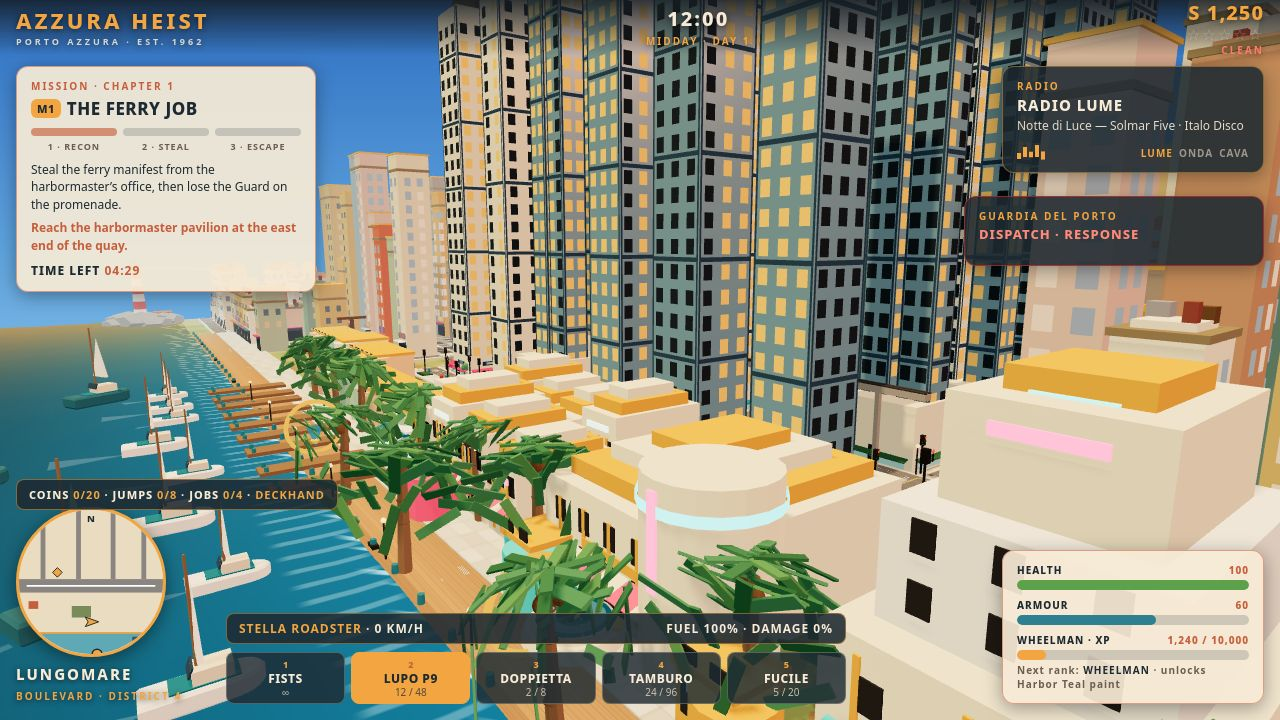
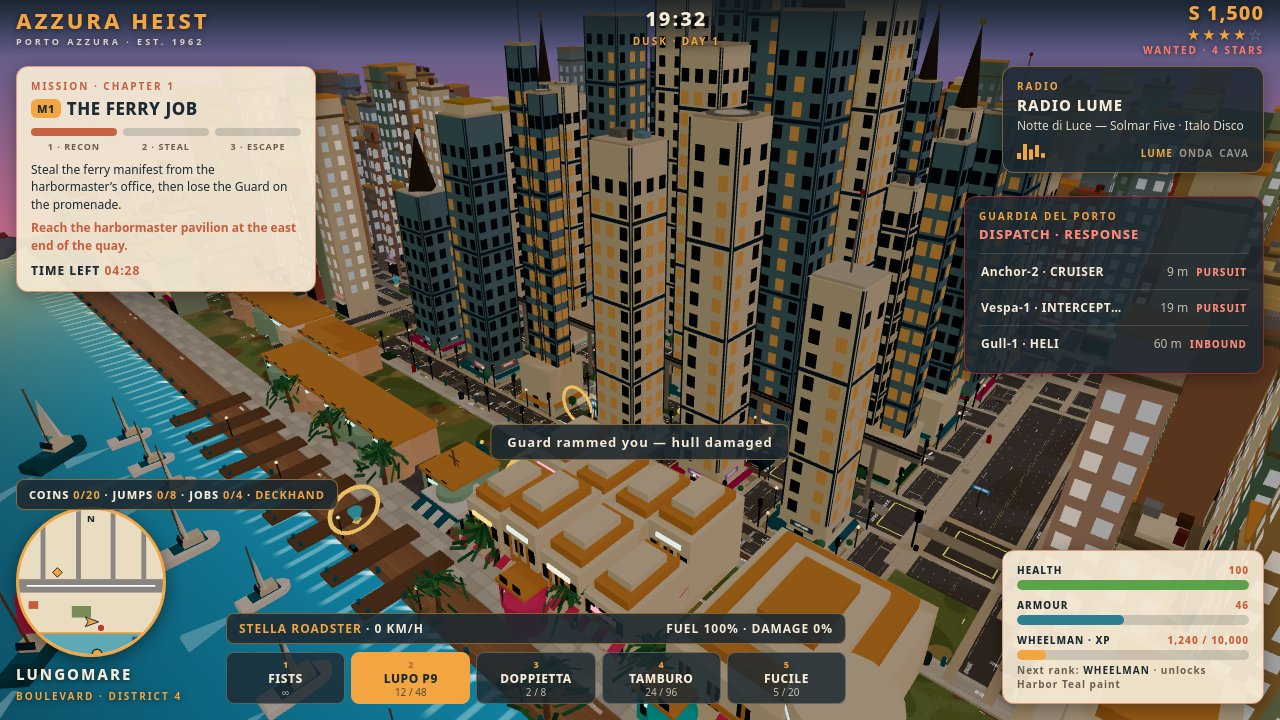
Round-9 part E: dusk restage
Restage 4 submission screenshots at dusk (19:30-19:33) with part-F
car scale: 01-cover police chase 68 km/h wanted 4 stars, 02-city
manual CBD aerial (district=skyline preset faces the bay, retaken),
03-action police ramming side-by-side 54 km/h (first side camera
was inside a building, retaken from the south sidewalk),
04-features real gameplay 94 km/h. All JPEG q85 1280x720 under
256 KiB, 0 console errors. Low-cam POV (Xian 16:23) in
reports/partE-lowcam-pov.png. Removed 2 uncommitted scratch
candidates from screenshots/ (extra files would break the 3-4
screenshot gate).

diff --git a/reports/partE-dusk-restage.md b/reports/partE-dusk-restage.md
@@ -1,0 +1,48 @@
+# Part E — Dusk restage (23 Nov 2026, stage1ac, setelah part F)
+
+4 screenshot submission di-shoot ulang di senja (19:30–19:33) dengan
+mobil skala baru (CAR_SCALE 0,5, part F). Semua JPEG q85 1280×720,
+di bawah 256 KiB. 0 console errors di semua shoot.
+
+| File | Isi | Ukuran |
+|---|---|---|
+| screenshots/01-cover.jpg | Kejar-kejaran senja di Lungomare, hero 68 km/jam, polisi di kiri, wanted 4★, misi M9 + dispatch terisi | 149.427 B |
+| screenshots/02-city.jpg | Aerial senja CBD + marina + promenade, tower padat, langit ungu-pink | 247.134 B |
+| screenshots/03-action.jpg | Polisi menabrak hero dari samping (0,3u), 54 km/jam, "Guard rammed you", wanted 4★ | 155.272 B |
+| screenshots/04-features.jpg | Momen gameplay nyata: hero 94 km/jam di jalan multi-lajur senja, M1 + HUD penuh | 152.657 B |
+| reports/partE-lowcam-pov.png | Low-cam POV (perintah Xian 16:23): kamera 0,8u di trotoar, hero datang 68 km/jam, jalan lebar + trotoar + gedung terbaca | 314.897 B |
+
+## Catatan jujur per shot
+
+- **Low-cam POV**: varian B (head-on) yang dipakai — varian A
+  (dari belakang, kamera 0,8u) tertutup massa krem fasad gedung di
+  sepertiga atas frame. Di B, mobil menghadap kamera, polisi
+  kelihatan di belakang, jalan terbaca lebar. Kelemahan: toast
+  "Guard rammed you" menutupi tengah jalan; mobil polisi kecil.
+- **01-cover**: hero + polisi kelihatan, gedung + palem terbaca.
+  Kelemahan: fasad krem di kanan atas (kamera dekat gedung selatan);
+  palem tengah membelah frame.
+- **02-city**: RETAKE — `?shot=district&district=skyline` gagal
+  (kamera menghadap teluk: 70% air + langit, tanpa kota). Diulang
+  manual: aerial (48,42,52) → (-5,0,-8) di atas CBD. Kelemahan:
+  hero parkir 0 km/jam (bukan mengemudi); toast "Guard rammed you"
+  muncul karena polisi menabrak mobil parkir; pejalan kaki hampir
+  tak terlihat dari ketinggian ini. Ukuran 247.134 B — di bawah
+  batas 256 KiB tapi margin hanya ~15 KB.
+- **03-action**: RETAKE — kamera samping pertama (z=mz+4) berada
+  DI DALAM gedung selatan (frame penuh dinding krem). Diulang dari
+  trotoar selatan (z=2,8, 1,5u). Hasil: hero + polisi bersisian
+  saat menabrak — shot aksi terkuat dari set ini.
+- **04-features**: gameplay nyata 94 km/jam (kecepatan maks).
+  Kelemahan: toast "RANK UP — DECKHAND!" menutupi HUD tengah-bawah
+  (muncul di awal game baru); palem besar di tengah frame. Tidak
+  di-retake (ronde perbaikan dipakai untuk 03 + 02).
+
+## Scratch (tidak ikut commit submission)
+
+Kandidat di reports/partE-cand-*.png, partE-lowcam-hood.png,
+partE-lowcam-pov-B.png (sudah dipromosikan jadi partE-lowcam-pov.png)
+tetap di reports/ sebagai jejak audit. Dua file kandidat di
+screenshots/cand-cover-A.jpg dan screenshots/cand-cover-D.jpg
+DIHAPUS dari working tree (belum pernah di-commit; file ekstra di
+screenshots/ akan merusak gate submission 3–4 screenshot).
